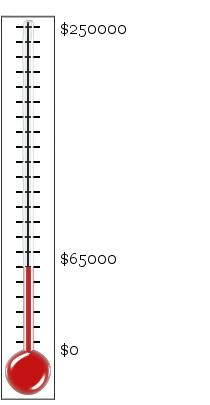
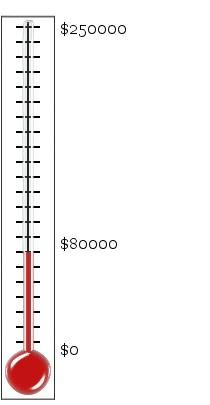
HP came in. More paypal. Now at $80K.

Changed region(s): [[0.2857, 0.563, 0.5714, 0.6815], [0.0857, 0.6222, 0.1714, 0.6815]]

diff --git a/contributors.html b/contributors.html
@@ -112,6 +112,9 @@ $5000 or more, and display your logo for donations of $10,000 or more.
 </UL>
 <LI> Silver: $10,000 to $25,000
 <LI> Bronze: $5,000 to $10,000
+<UL>
+<LI><A HREF=http://www.hpe.com>Hewlett Packard Enterprise</A>
+</UL>
 </UL>
 <HR>
 <h4>2015 Significant Foundation Contributors</h4><p>
